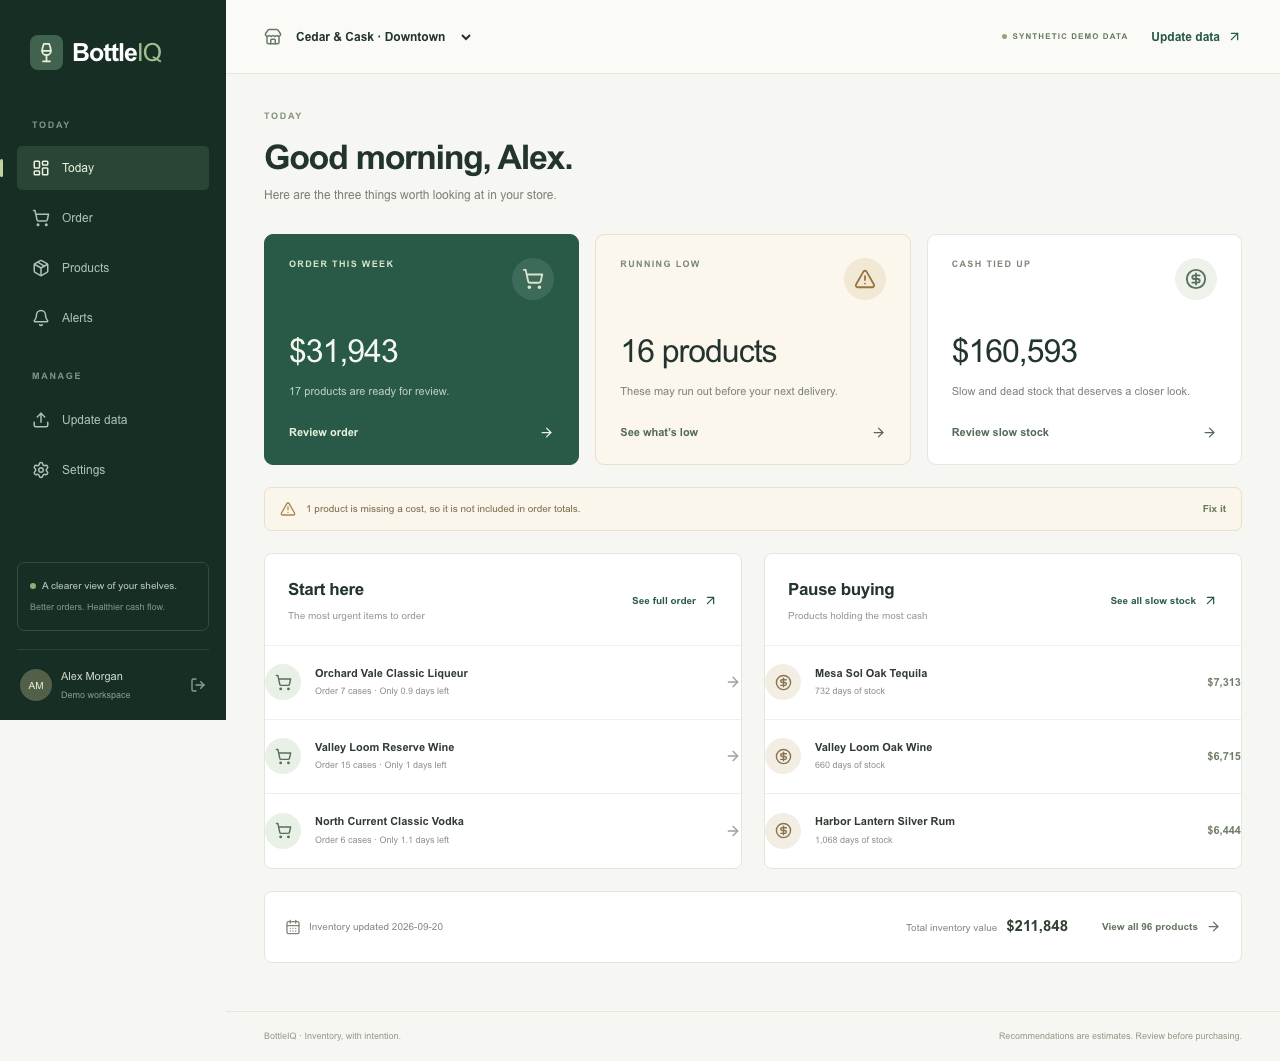
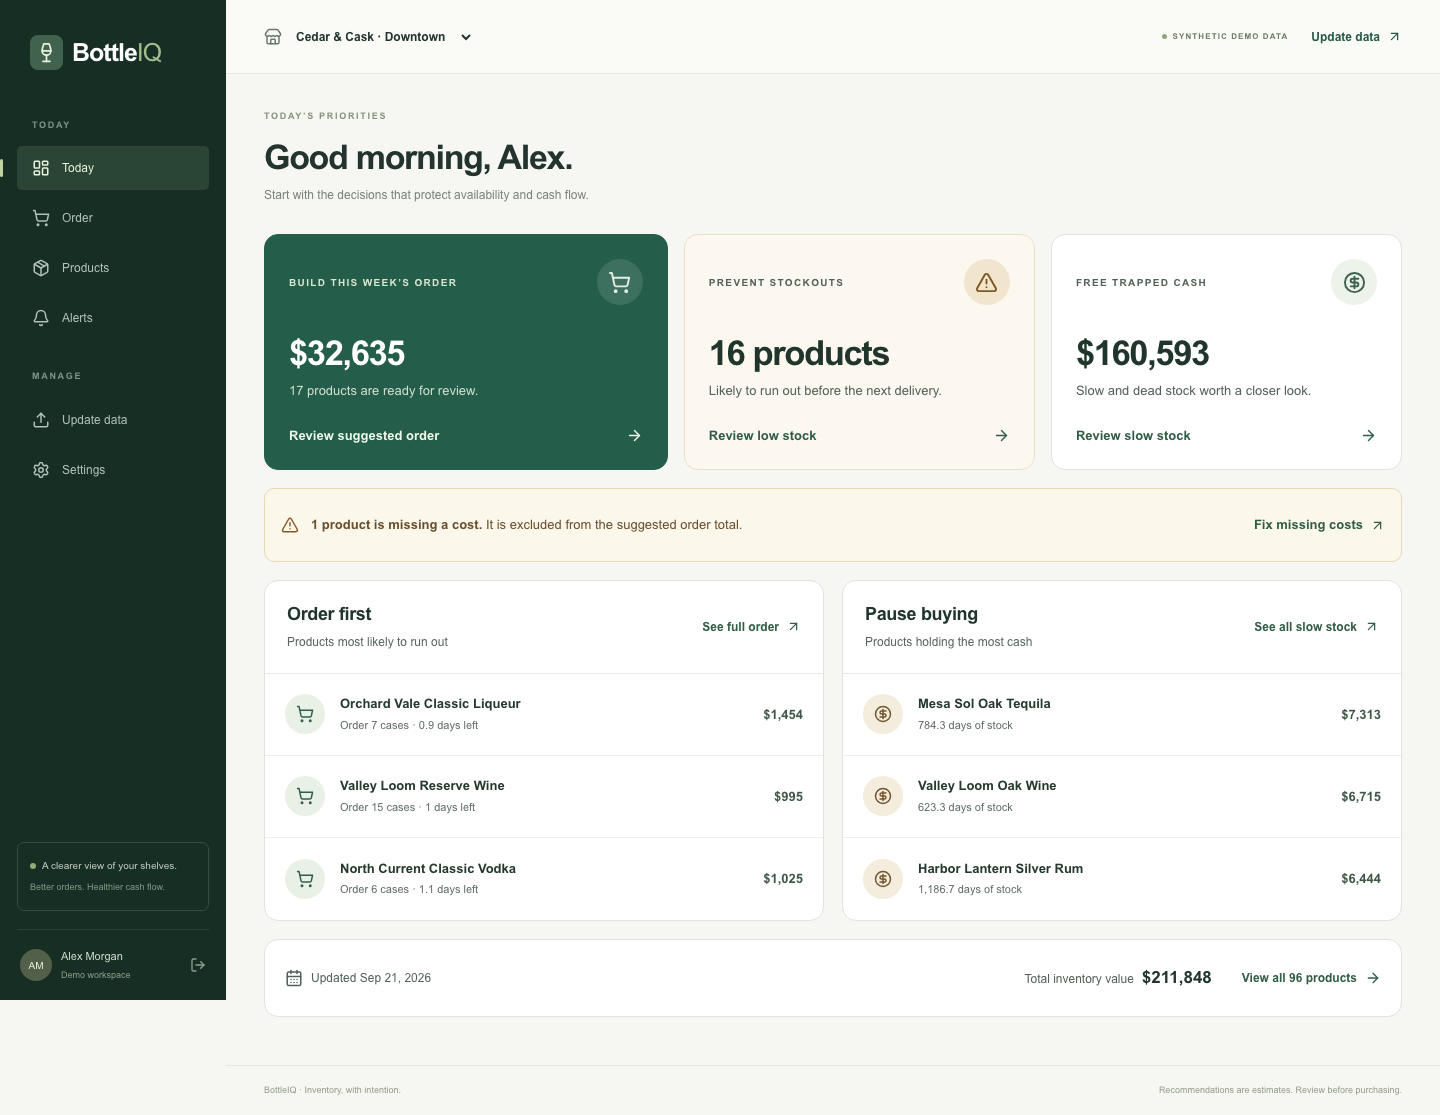
test: verify refreshed dashboard experience

diff --git a/apps/web/src/app/globals.css b/apps/web/src/app/globals.css
@@ -1903,14 +1903,34 @@ summary {
     max-width: 100%;
   }
 }
+@media (min-width: 761px) and (max-width: 900px) {
+  .dashboard-decision-grid,
+  .dashboard-skeleton-decisions {
+    grid-template-columns: repeat(2, minmax(0, 1fr));
+  }
+  .dashboard-decision.primary,
+  .dashboard-skeleton-decisions > div:first-child {
+    grid-column: 1 / -1;
+  }
+  .dashboard-decision.primary {
+    min-height: 210px;
+  }
+}
 @media (max-width: 760px) {
   .sidebar {
     transform: translateX(-100%);
     width: 226px;
-    transition: transform 0.2s;
+    visibility: hidden;
+    pointer-events: none;
+    transition:
+      transform 0.2s,
+      visibility 0s linear 0.2s;
   }
   .sidebar.open {
     transform: translateX(0);
+    visibility: visible;
+    pointer-events: auto;
+    transition-delay: 0s;
   }
   .workspace-main {
     margin-left: 0;
@@ -1919,25 +1939,25 @@ summary {
     display: grid;
     place-items: center;
     position: fixed;
-    top: 22px;
-    left: 14px;
+    top: 15px;
+    left: 10px;
     z-index: 40;
     color: #81926e;
     background: #eaf0e2;
     border: 1px solid #dce5d0;
-    border-radius: 5px;
-    width: 32px;
-    height: 32px;
+    border-radius: 8px;
+    width: 44px;
+    height: 44px;
   }
   .sidebar.open .brand {
     margin-top: 55px;
   }
   .topbar {
-    padding: 0 16px 0 56px;
+    padding: 0 16px 0 64px;
     height: 75px;
   }
   .store-switch select {
-    font-size: 10px;
+    font-size: 12px;
     max-width: 185px;
   }
   .store-switch svg {

diff --git a/apps/web/tests/e2e/smoke.spec.ts b/apps/web/tests/e2e/smoke.spec.ts
@@ -3,6 +3,7 @@ test.use({ reducedMotion: "reduce" });
 test("demo owner can inspect inventory and edit/export a Smart Order", async ({
   page,
 }) => {
+  await page.setViewportSize({ width: 1440, height: 1000 });
   await page.goto("/");
   await expect(
     page.getByRole("heading", { name: "Stop guessing what to order." }),
@@ -81,6 +82,19 @@ test("responsive dashboard and navigation stay usable", async ({ page }) => {
     path: "../../docs/screenshots/mobile-dashboard.png",
     fullPage: true,
   });
+  await expect(page.getByRole("link", { name: "Today" })).toBeHidden();
+  for (const width of [768, 1024]) {
+    await page.setViewportSize({ width, height: 900 });
+    await expect(
+      page.getByRole("link", { name: /Build this week’s order/i }),
+    ).toBeVisible();
+    expect(
+      await page.evaluate(
+        () => document.documentElement.scrollWidth <= window.innerWidth,
+      ),
+    ).toBe(true);
+  }
+  await page.setViewportSize({ width: 375, height: 812 });
   await page.getByRole("button", { name: "Toggle navigation" }).click();
   await page.getByRole("link", { name: "Update data", exact: true }).click();
   await expect(
